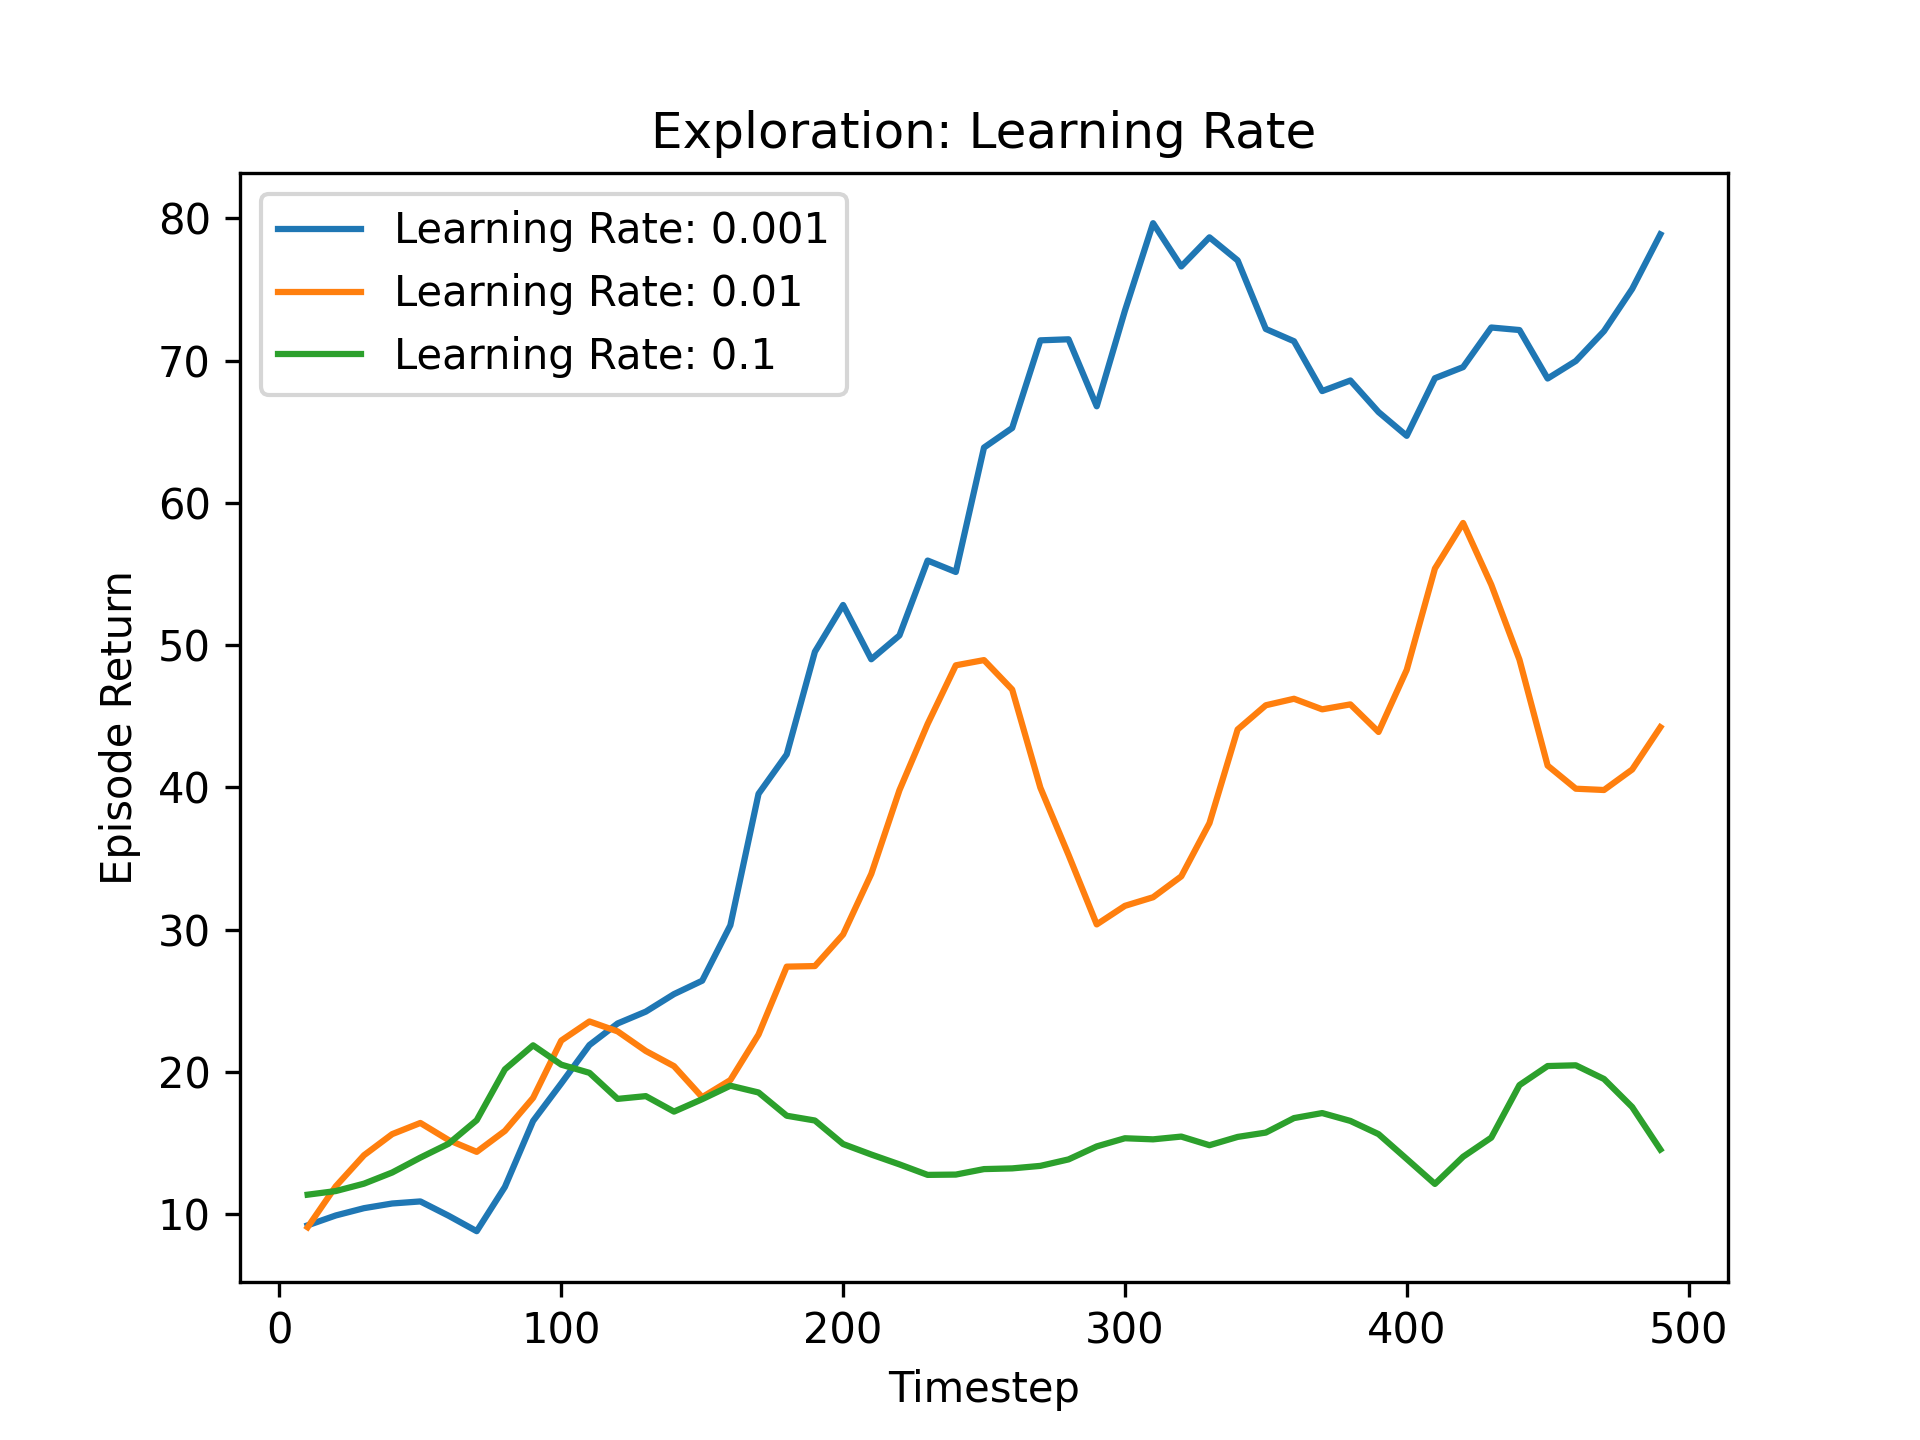
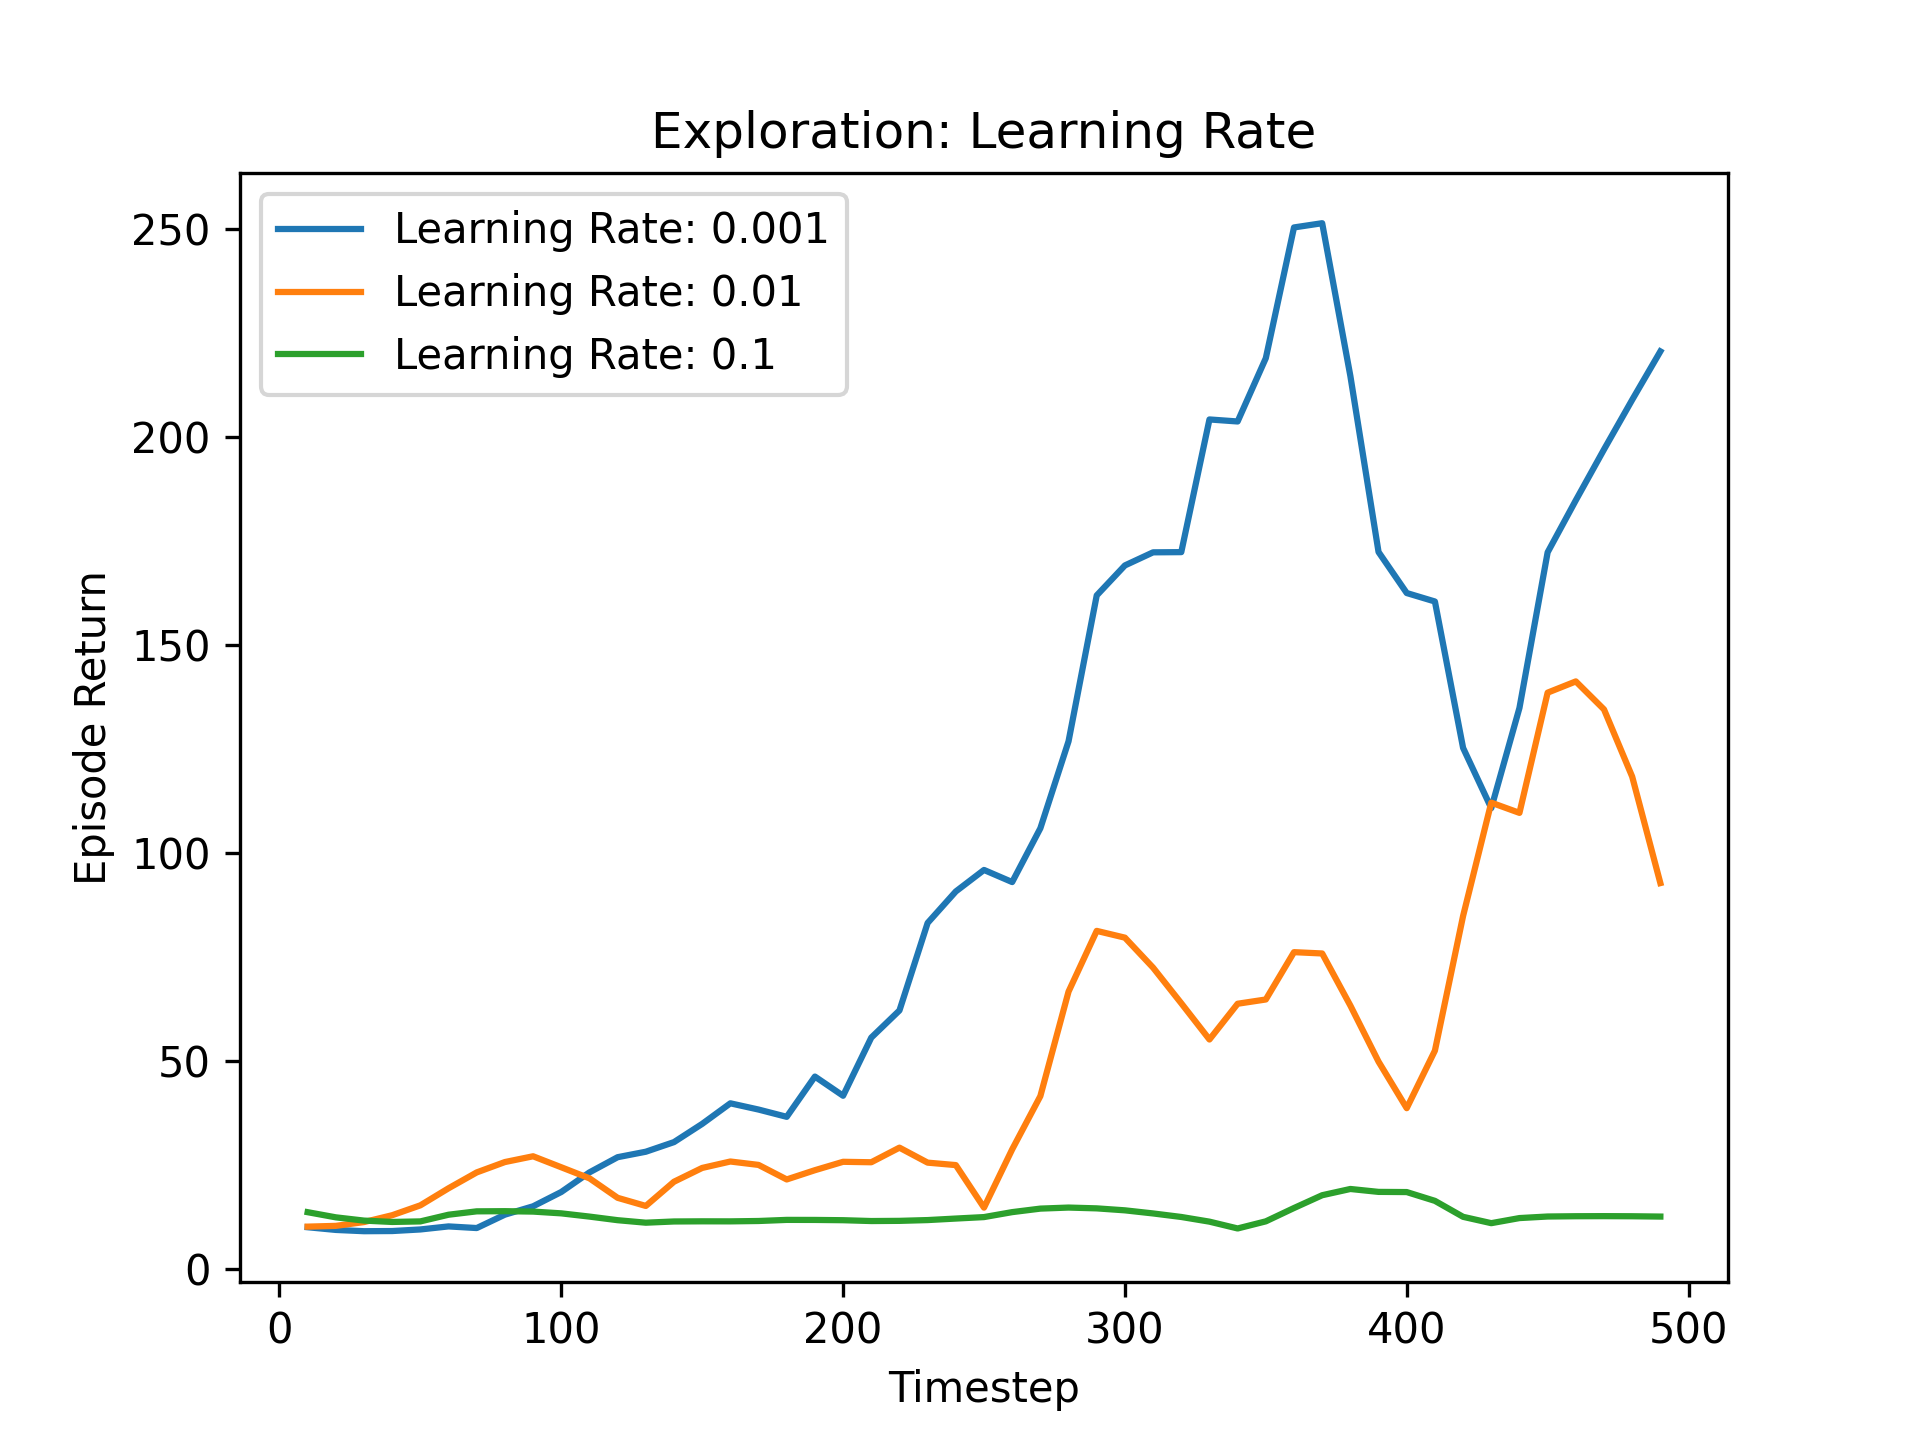
TN & ER implemented in DQN

diff --git a/DQN.py b/DQN.py
@@ -15,27 +15,8 @@ import torch.nn.functional as f
 from tqdm import tqdm
 
 class DQNAgent(DQN_BaseAgent):
-    def update(self, s, a, r, s_next, done) -> None:
-        """Update the Q-values of the agent
-
-        Args:
-            s (array): state
-            a (int): action
-            r (float): reward
-            s_next (array): next state
-            done (bool): whether the episode is done
-        """
-        # Convert to tensors
-        s_tensor = torch.FloatTensor(s).unsqueeze(0)
-        a_tensor = torch.LongTensor([a]).unsqueeze(1)
-        r_tensor = torch.FloatTensor([r]).unsqueeze(0)
-        s_next_tensor = torch.FloatTensor(s_next).unsqueeze(0)
-        done_tensor = torch.FloatTensor([done]).unsqueeze(0)
-        
-        # Get Q-values for state and next state
-        Q_sa = self.network(s_tensor).gather(1, a_tensor) # Gather all Q-values for the state and select the one corresponding to the action in dim 1
-        Q_sa_next = self.network(s_next_tensor).max(1)[0].detach() # Detach (return new tensor)
-        
+    def loss_and_optimize(self, Q_sa, r_tensor, Q_sa_next, done_tensor):
+        """Calculate the loss and optimize the network"""
         # Calculate target
         target_Q_sa = r_tensor + self.gamma * Q_sa_next * (1 - done_tensor) 
         
@@ -47,15 +28,56 @@ class DQNAgent(DQN_BaseAgent):
         loss.backward()
         self.optim.step()
 
-    def performance_update(self):
+    def update(self, s, a, r, s_next, done, TN=False) -> None:
+        """Update the Q-values of the agent
+
+        Args:
+            s (array): state
+            a (int): action
+            r (float): reward
+            s_next (array): next state
+            done (bool): whether the episode is done
+        """
+        # Convert to tensors
+        # print(s.shape, a.shape, r.shape, s_next.shape, done.shape)
+        s_tensor = torch.FloatTensor(s).unsqueeze(0)
+        a_tensor = torch.LongTensor([a]).unsqueeze(1)
+        r_tensor = torch.FloatTensor([r]).unsqueeze(0)
+        s_next_tensor = torch.FloatTensor(s_next).unsqueeze(0)
+        done_tensor = torch.FloatTensor([done]).unsqueeze(0)
+        
+        # Get Q-values for state and next state
+        Q_sa = self.network(s_tensor).gather(1, a_tensor) # Gather all Q-values for the state and select the one corresponding to the action in dim 1
+
+        if TN:
+            Q_sa_next = self.target_network(s_next_tensor).max(1)[0].detach()
+        else:
+            Q_sa_next = self.network(s_next_tensor).max(1)[0].detach() # Detach (return new tensor)
+        
+        self.loss_and_optimize(Q_sa, r_tensor, Q_sa_next, done_tensor)
+       
+    def performance_update(self, TN=False):
         """
         Experience Replay and/or Target Network update
         """
-        pass
+        s, a, r, s_next, done = self.memory.sample()
+        s_tensor = torch.FloatTensor(s) # Already in the right shape, as for s_next
+        a_tensor = torch.LongTensor(a).unsqueeze(1)
+        r_tensor = torch.FloatTensor(r).unsqueeze(1)
+        s_next_tensor = torch.FloatTensor(s_next)
+        done_tensor = torch.FloatTensor(done).unsqueeze(1)
 
+        Q_sa = self.network(s_tensor).gather(1, a_tensor)
+
+        if TN:
+            Q_sa_next = self.target_network(s_next_tensor).max(1)[0].detach().view(-1, 1)  # Set shape to match with above tensors
+        else:
+            Q_sa_next = self.network(s_next_tensor).max(1)[0].detach().view(-1, 1)
+
+        self.loss_and_optimize(Q_sa, r_tensor, Q_sa_next, done_tensor)
 
 def dqn(n_episodes, learning_rate, gamma, policy='egreedy', epsilon=None, temp=None, plot=True, eval_interval = 500, 
-        neurons=128, UTDR = 1, len_buffer=10000, len_batch=64):
+        neurons=128, UTDR = 1, len_buffer=10000, len_batch=128, ER=False, TN=False):
     """Runs DQN on a gym environment
 
     Args:
@@ -97,11 +119,19 @@ def dqn(n_episodes, learning_rate, gamma, policy='egreedy', epsilon=None, temp=N
             steps += 1
 
             if steps % UTDR == 0:
-                agent.update(s, a, r, s_next, done)
+                if ER:
+                    agent.memory.add_experience_to_buffer(s, a, r, s_next, done)
+                    if len(agent.memory.buffer) >= len_batch:
+                        agent.performance_update(TN=TN)
+                else:
+                    agent.update(s, a, r, s_next, done)
 
             s = s_next
             r_tot += r
-    
+
+        if TN:
+            agent.target_network.load_state_dict(agent.network.state_dict())
+
         if e % eval_interval == 0 and e != 0:
             eval_return = agent.evaluate(env)
             eval_returns.append(eval_return)
@@ -120,7 +150,7 @@ def test():
     temp = 1.0
     plot = False
 
-    dqn(n_episodes, learning_rate, gamma, policy, epsilon, temp, plot)
+    dqn(n_episodes, learning_rate, gamma, policy, epsilon, temp, plot, ER=False, TN=True)
 
 if __name__ == '__main__':
     test()

diff --git a/Agent.py b/Agent.py
@@ -33,7 +33,7 @@ class ReplayBuffer:
         Sample a random batch from the buffer
         """
         batch = random.sample(self.buffer, k=self.len_batch)
-        s, a, r, s_next, done = map(np.array(), zip(*batch)) # Unzip the batch and map to arrays
+        s, a, r, s_next, done = map(np.array, zip(*batch)) # Unzip the batch and map to arrays
         # s, s_next = np.vstack(s), np.vstack(s_next) # Stack state arrays 
 
         return s, a, r, s_next, done

diff --git a/Experiment.py b/Experiment.py
@@ -102,6 +102,6 @@ def experiment():
 
 if __name__ == '__main__':
     global LR_explore, NS_explore, UTDR_epxlore, EF_explore
-    LR_explore, NS_explore, UTDR_explore, EF_explore = False, False, True, False
+    LR_explore, NS_explore, UTDR_explore, EF_explore = True, True, True, True
 
     experiment()
